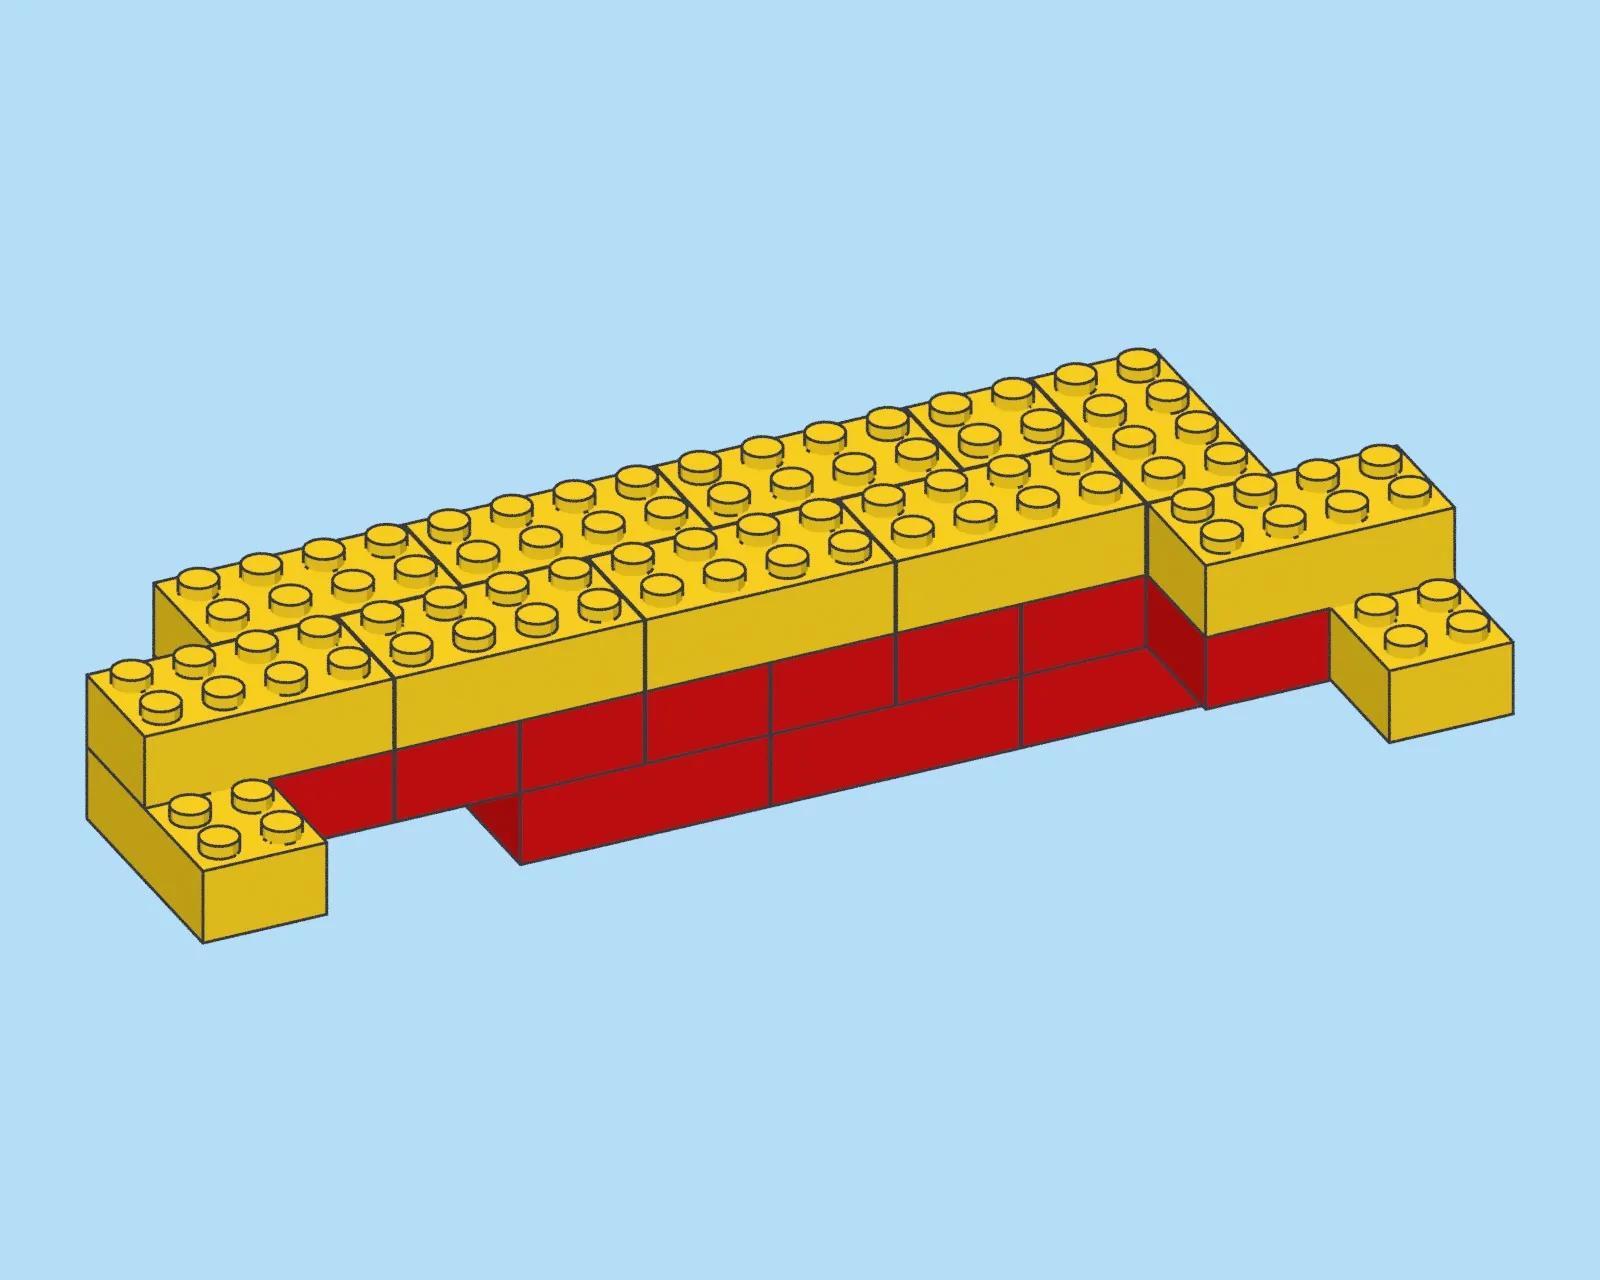
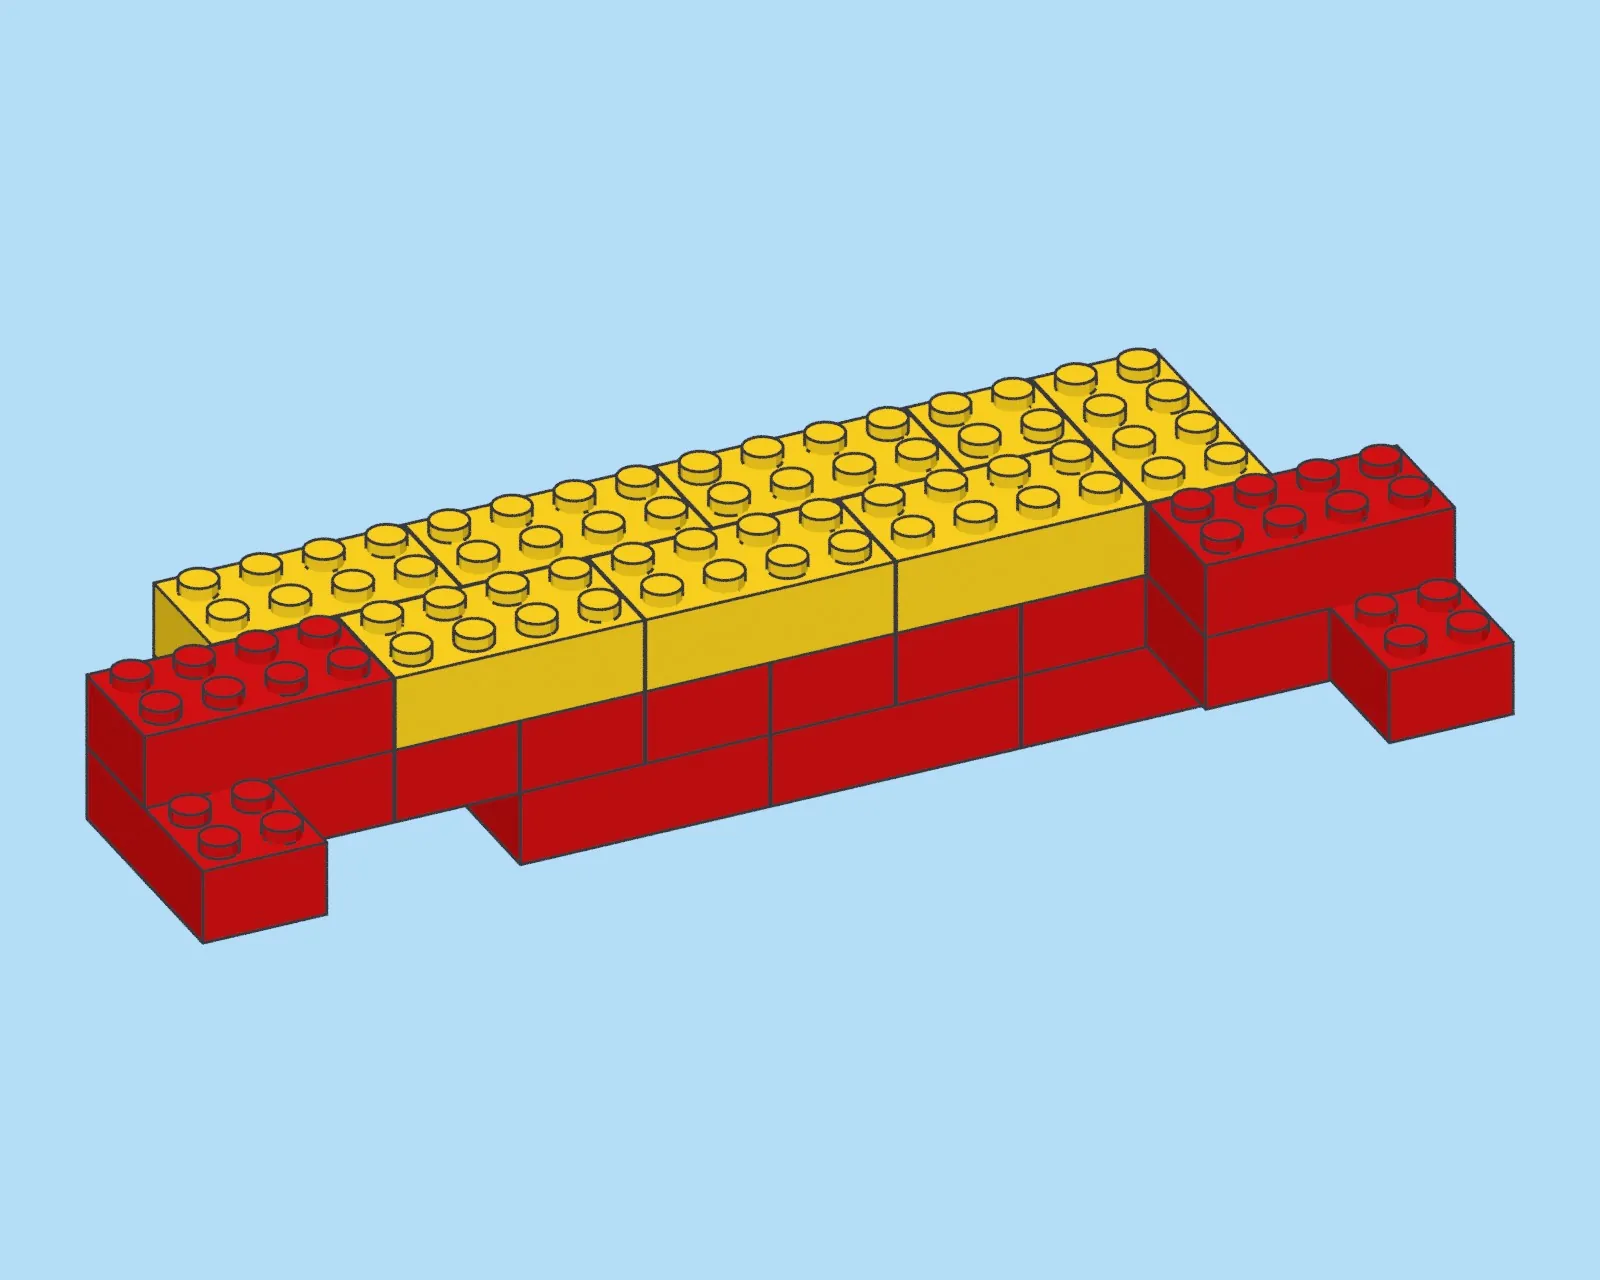
Lego Models: Möbius sub-builds lowered in their own step part, in purple
Each step is now split: stand a pillar, lower each sub-build, then build the
layer, each on its own page. A sub-build being lowered is purple in the
picture and on the map, so it stands out from the rest of the model.

Claude-Session: https://claude.ai/code/session_01BVyAKW4jZLnjrQZ7xdEYaf

Changed region(s): [[0.0312, 0.4688, 0.25, 0.75], [0.7188, 0.3438, 0.9688, 0.5938]]

diff --git a/tools/lego-models/mobius/index.html b/tools/lego-models/mobius/index.html
@@ -178,7 +178,7 @@ html.am-standalone .am-home { display:inline-block; }
         <li data-style="true">Each step builds one layer. In the picture, new bricks have <b>bold outlines and full colour</b>; earlier layers are faded.</li>
 
         <li data-style="highlight">Each step builds one layer. New bricks are <span class="sw" style="background:var(--new-top);vertical-align:-1px"></span> <b>yellow</b>: they go on top of what's there. Bricks in their own colours are already in place.</li>
-        <li><b>Sub-builds.</b> Some pieces stick out over empty space as the model goes up. Rather than building them in the air, you build each one on its own on the table (its pages say "sub-build"), then lower it onto the model in the step that uses it. On the map, a <span style="color:#7a3fc0;font-weight:600">purple ring</span> marks where a sub-build's bricks land.</li>
+        <li><b>Sub-builds.</b> Some pieces stick out over empty space as the model goes up. Rather than building them in the air, you build each one on its own on the table (its pages say "sub-build"), then lower it onto the model in the step that uses it. On the map, a <span style="color:#7a3fc0;font-weight:600">purple</span> marks a sub-build being lowered into place, in the picture and on the map.</li>
         <li><b>Pillars.</b> Each grey pillar is a stack of crossed pairs of bricks, built on its own and stood on the baseplates (on the <b>black ring</b>) when the strip reaches it.</li>
         <li>Faint outlines on the map show the neighbouring layer, for lining things up. Tap any brick to see its exact columns and rows.</li>
       </ul>
@@ -230,7 +230,6 @@ const PLAN = DATA.plan;
 // table, then lowered onto the model); "main": one layer of the model, plus standing pillars and lowering sub-builds.
 const pages = [];
 const B_ = n => bricks[n];
-const placedAt = new Array(bricks.length).fill(0);   // the main step at which each brick appears in the model
 function piecePages(pc, s, parent) {
   pc.parent = parent;
   pc.subs.forEach(sb => piecePages(sb, s, pc));
@@ -240,12 +239,20 @@ function piecePages(pc, s, parent) {
 function pieceBricks(pc) { return pc.layers.flat().concat(...pc.subs.map(pieceBricks)); }
 PLAN.steps.forEach(st => {
   const pls = PLAN.pillars.filter(p => p.place === st.step);
-  pls.forEach(p => { pages.push({ kind: "pillar", pl: p, s: st.step, items: p.layers.flat().map(B_) }); p.layers.flat().forEach(n => placedAt[n] = st.step); });
-  st.pieces.forEach(pc => { piecePages(pc, st.step, null); pieceBricks(pc).forEach(n => placedAt[n] = st.step); });
-  st.singles.forEach(n => placedAt[n] = st.step);
-  pages.push({ kind: "main", s: st.step, layer: st.step, items: st.singles.map(B_), pieces: st.pieces, pillars: pls });
+  pls.forEach(p => pages.push({ kind: "pillar", pl: p, s: st.step, items: p.layers.flat().map(B_) }));
+  st.pieces.forEach(pc => piecePages(pc, st.step, null));
+  pls.forEach(p => pages.push({ kind: "stand", pl: p, s: st.step, layer: 0, items: [] }));
+  st.pieces.forEach(pc => pages.push({ kind: "attach", pc, s: st.step, layer: st.step, items: [] }));
+  pages.push({ kind: "main", s: st.step, layer: st.step, items: st.singles.map(B_) });
 });
 pages.forEach((p, idx) => p.idx = idx);
+// the page at which each brick becomes part of the model
+const placedPg = new Array(bricks.length).fill(1e9);
+pages.forEach(p => {
+  if (p.kind === "stand") p.pl.layers.flat().forEach(n => placedPg[n] = p.idx);
+  if (p.kind === "attach") pieceBricks(p.pc).forEach(n => placedPg[n] = p.idx);
+  if (p.kind === "main") p.items.forEach(b => placedPg[b.n] = p.idx);
+});
 const cum = []; let acc = 0; pages.forEach(p => { if (p.kind !== "main" || true) acc += p.items.length; cum.push(acc); });
 const pieceName = pc => pc.name;
 
@@ -260,7 +267,7 @@ const STYLE = {
   old:  { col: h => (trueStyle() ? [fadeOf(h), fadeEdge(h)] : [h, LS.edge(h)]), dash: false, studs: true },
   top:  { col: h => (trueStyle() ? [h, LS.edge(h)] : ["#f7ce1e", "#5c4a00"]), dash: false, studs: true },
   below:{ col: h => (trueStyle() ? [h, LS.edge(h)] : ["#1e8fe6", "#06345a"]), dash: false, studs: true },
-  attach:{ col: h => (trueStyle() ? [h, LS.edge(h)] : ["#f7ce1e", "#5c4a00"]), dash: false, studs: true },
+  attach:{ col: h => (trueStyle() ? [h, LS.edge(h)] : ["#a97fe0", "#3c2366"]), dash: false, studs: true },
 };
 let current = [];
 function brickSVG(b, kind, ring) {
@@ -300,12 +307,12 @@ function bbox(list, m) {
 function mapSVG(pg) {
   current = [];
   const L = pg.layer;
-  if (pg.kind === "main") {
+  if (pg.kind === "main" || pg.kind === "attach" || pg.kind === "stand") {
     let s = svgOpen(0, 0, COLS, ROWS, `Top-down map of layer ${L + 1}`) + gridSVG(0, 0, COLS, ROWS, 8);
-    bricks.filter(b => b.k === L - 1 && placedAt[b.n] < pg.s).forEach(b => s += brickSVG(b, "ref"));
-    bricks.filter(b => b.k === L && placedAt[b.n] < pg.s).forEach(b => s += brickSVG(b, "old"));
-    pg.pillars.forEach(p => p.layers.flat().map(B_).filter(b => b.k === L).forEach(b => s += brickSVG(b, "old", RING_PILLAR)));
-    pg.pieces.forEach(pc => pieceBricks(pc).map(B_).filter(b => b.k === L).forEach(b => s += brickSVG(b, "attach", RING_PIECE)));
+    bricks.filter(b => b.k === L - 1 && placedPg[b.n] < pg.idx).forEach(b => s += brickSVG(b, "ref"));
+    bricks.filter(b => b.k === L && placedPg[b.n] < pg.idx).forEach(b => s += brickSVG(b, "old"));
+    if (pg.kind === "stand") pg.pl.layers.flat().map(B_).filter(b => b.k === L).forEach(b => s += brickSVG(b, "old", RING_PILLAR));
+    if (pg.kind === "attach") pieceBricks(pg.pc).map(B_).filter(b => b.k === L).forEach(b => s += brickSVG(b, "attach", RING_PIECE));
     pg.items.forEach(b => s += brickSVG(b, "top"));
     return s + "</svg>";
   }
@@ -353,7 +360,8 @@ let page = -1;
 $("range").max = pages.length;
 function label(pg) { return pg.kind === "main" ? `${pg.s + 1}` : pg.kind === "pillar" ? `${pg.s + 1}` : `${pg.s + 1}`; }
 function hashOf(pg) {
-  return pg.kind === "main" ? `#step-${pg.s + 1}` : pg.kind === "pillar" ? `#step-${pg.s + 1}-pillar-${pg.pl.name}` : `#step-${pg.s + 1}-sub-${pg.pc.name}-${pg.li + 1}`;
+  return pg.kind === "main" ? `#step-${pg.s + 1}` : pg.kind === "pillar" ? `#step-${pg.s + 1}-pillar-${pg.pl.name}` : pg.kind === "stand" ? `#step-${pg.s + 1}-stand-${pg.pl.name}`
+    : pg.kind === "attach" ? `#step-${pg.s + 1}-lower-${pg.pc.name}` : `#step-${pg.s + 1}-sub-${pg.pc.name}-${pg.li + 1}`;
 }
 const plural = (n, w) => `${n} ${w}${n === 1 ? "" : "s"}`;
 function ringBox(list) { const [x0, y0, x1, y1] = bbox(list, 0); return `columns ${x0 + 1}–${x1}, rows ${y0 + 1}–${y1}`; }
@@ -370,15 +378,20 @@ function show(i) {
   if (i < 0) return;
   const pg = pages[i], s = pg.s;
   const cnt4 = (cl) => pg.items.filter(b => bhex(b) === cl.hex && b.o !== 2).length, cnt2 = (cl) => pg.items.filter(b => bhex(b) === cl.hex && b.o === 2).length;
-  const sub = pg.kind === "pillar" ? `pillar ${pg.pl.name}` : pg.kind === "piece" ? `sub-build ${pg.pc.name} · layer ${pg.li + 1} of ${pg.pc.layers.length}` : "";
+  const sub = pg.kind === "pillar" ? `pillar ${pg.pl.name}` : pg.kind === "piece" ? `sub-build ${pg.pc.name} · layer ${pg.li + 1} of ${pg.pc.layers.length}`
+    : pg.kind === "stand" ? `stand pillar ${pg.pl.name}` : pg.kind === "attach" ? `lower sub-build ${pg.pc.name}` : pages.some(q => q.s === s && (q.kind === "stand" || q.kind === "attach")) ? `layer ${s + 1}` : "";
   $("stepnum").innerHTML = `${s + 1}<small>/ ${N}${sub ? ` · ${sub}` : ""}</small>`;
   const chip = (c, n, k) => k ? `<div class="part">${brickIcon(c, n)}× ${k}</div>` : "";
   $("parts").innerHTML = LS.distinct(SC).map(cl => chip(cl.hex, 4, cnt4(cl)) + chip(cl.hex, 2, cnt2(cl))).join("");
   const nn = String(s + 1).padStart(2, "0"), dir = `steps${LS.suffix(SC)}`;
-  $("shot").src = pg.kind === "main" ? `${dir}/step_${nn}.webp` : pg.kind === "pillar" ? `${dir}/pillar_${pg.pl.name}.webp` : `${dir}/sub_${pg.pc.name}_${pg.li + 1}.webp`;
+  $("shot").src = pg.kind === "main" ? `${dir}/step_${nn}.webp` : pg.kind === "pillar" ? `${dir}/pillar_${pg.pl.name}.webp` : pg.kind === "stand" ? `${dir}/stand_${pg.pl.name}.webp`
+    : pg.kind === "attach" ? `${dir}/attach_${pg.pc.name}.webp` : `${dir}/sub_${pg.pc.name}_${pg.li + 1}.webp`;
   $("belowwrap").classList.add("hidden");
-  $("shottitle").textContent = pg.kind === "main" ? "Model after this step" : pg.kind === "pillar" ? `Pillar ${pg.pl.name}, finished` : `Sub-build ${pg.pc.name} so far`;
-  $("maptitle").textContent = pg.kind === "main" ? `Layer ${pg.layer + 1} from above` : pg.kind === "pillar" ? `Pillar ${pg.pl.name}, layer by layer` : `Sub-build ${pg.pc.name}: its layer ${pg.li + 1} from above`;
+  $("shottitle").textContent = pg.kind === "main" ? "Model after this step" : pg.kind === "pillar" ? `Pillar ${pg.pl.name}, finished` : pg.kind === "stand" ? `Pillar ${pg.pl.name} in place`
+    : pg.kind === "attach" ? `Sub-build ${pg.pc.name} in place` : `Sub-build ${pg.pc.name} so far`;
+  $("maptitle").textContent = pg.kind === "main" ? `Layer ${pg.layer + 1} from above` : pg.kind === "pillar" ? `Pillar ${pg.pl.name}, layer by layer`
+    : pg.kind === "stand" ? `Layer 1 from above: where pillar ${pg.pl.name} stands` : pg.kind === "attach" ? `Layer ${pg.layer + 1} from above: where sub-build ${pg.pc.name} lands`
+    : `Sub-build ${pg.pc.name}: its layer ${pg.li + 1} from above`;
   $("mapwrap").innerHTML = pg.kind === "pillar" ? pillarHTML(pg.pl) : mapSVG(pg);
   $("mapwrap").classList.toggle("pillar", pg.kind === "pillar"); $("zoom").hidden = pg.kind === "pillar";
   $("info").textContent = pg.kind === "pillar" ? "" : "Tap a brick for its position.";
@@ -388,11 +401,14 @@ function show(i) {
   if (pg.kind === "pillar") lg = `<span>${sw("#6c6e68", "1px solid #26272a")}each layer: two bricks, crossed over the layer below</span>`;
   else {
     lg = `<span>${newSw}new: place on top</span>`;
-    if (pg.kind === "main" && pg.pieces.length || pg.kind === "piece" && pg.attach.length) lg += `<span>${sw("none", `3px solid ${RING_PIECE}`)}sub-build lands here</span>`;
-    if (pg.kind === "main" && pg.pillars.length) lg += `<span>${sw("none", `3px solid ${RING_PILLAR}`)}stand the pillar here</span>`;
-    if (pg.kind === "main" && bricks.some(b => b.k === pg.layer && placedAt[b.n] < pg.s)) lg += `<span>${trueStyle() ? sw(fadeOf(main), `1px solid ${fadeEdge(main)}`) : sw("#6c6e68", "1px solid #26272a")}already in place</span>`;
+    if (pg.kind !== "main" && pg.kind !== "piece") lg = "";
+    const subSw = trueStyle() ? sw(main, `3px solid ${RING_PIECE}`) : sw("#a97fe0", `3px solid ${RING_PIECE}`);
+    if (pg.kind === "attach") lg += `<span>${subSw}sub-build ${pg.pc.name}: its bricks in this layer</span>`;
+    if (pg.kind === "piece" && pg.attach.length) lg += `<span>${subSw}sub-build ${pg.attach.map(x => x.name).join(", ")} lands here</span>`;
+    if (pg.kind === "stand") lg += `<span>${sw("#6c6e68", `3px solid ${RING_PILLAR}`)}pillar ${pg.pl.name} stands here</span>`;
+    if (pg.kind !== "piece" && bricks.some(b => b.k === pg.layer && placedPg[b.n] < pg.idx)) lg += `<span>${trueStyle() ? sw(fadeOf(main), `1px solid ${fadeEdge(main)}`) : sw("#d01012", "1px solid #3a0a04")}already in place</span>`;
     if (pg.kind === "piece" && pg.li > 0) lg += `<span>${sw("none", "1px dashed #c9a39d")}its layer ${pg.li} (below)</span>`;
-    if (pg.kind === "main" && pg.layer > 0) lg += `<span>${sw("none", "1px dashed #c9a39d")}layer ${pg.layer} (below)</span>`;
+    if (pg.kind !== "piece" && pg.layer > 0) lg += `<span>${sw("none", "1px dashed #c9a39d")}layer ${pg.layer} (below)</span>`;
   }
   $("legend").innerHTML = lg;
   const cnt = pg.items.length, bricksTxt = plural(cnt, "brick");
@@ -410,12 +426,16 @@ function show(i) {
     else t = `<h3>Sub-build ${pc.name} · layer ${pg.li + 1} of ${nl}</h3><p>${cnt ? `Place ${bricksTxt} on top of the piece.` : ""}</p>`;
     pg.attach.forEach(sb => t += `<p>Then take sub-build ${sb.name} and lower it onto this piece, so its bricks land on the purple-ringed places.</p>`);
     if (last) t += `<p>Sub-build ${pc.name} is done. Put it aside until ${when}.</p>`;
+  } else if (pg.kind === "stand") {
+    t = `<h3>Stand pillar ${pg.pl.name}</h3><p>Put pillar ${pg.pl.name} on the baseplates, on the black-ringed place (${ringBox(pg.pl.layers[0].map(B_))}).</p>` +
+        `<p>From this step on, the strip rests on it. If a brick that sits on the pillar doesn't line up, nudge the pillar on the baseplates.</p>`;
+  } else if (pg.kind === "attach") {
+    const top = pieceBricks(pg.pc).map(B_).filter(b => b.k === pg.layer);
+    t = `<h3>Lower sub-build ${pg.pc.name}</h3><p>Lower sub-build ${pg.pc.name} straight down onto the model, so its top bricks (purple on the map, ${ringBox(top)}) sit on layer ${pg.layer}. ` +
+        `Its lower bricks hang beside the layers below. In the picture it's the ${trueStyle() ? "full-colour" : "purple"} part.</p>`;
   } else {
     t = `<h3>Build layer ${s + 1}</h3>`;
-    pg.pillars.forEach(p => t += `<p>First stand <b>pillar ${p.name}</b> on the baseplates, on the black-ringed place (${ringBox(p.layers.flat().map(B_))}).</p>`);
-    t += s === 0 ? `<p>Place ${bricksTxt} directly on the baseplates.</p>` : cnt ? `<p>Place the ${bricksTxt} on top of layer ${s}, in any order.</p>` : "";
-    pg.pieces.forEach(pc => t += `<p>${cnt || pg.pillars.length ? "Then lower" : "Lower"} <b>sub-build ${pc.name}</b> onto the model: its purple-ringed bricks go here (${ringBox(pieceBricks(pc).map(B_).filter(b => b.k === pg.layer))}), and its lower bricks hang beside the layers below.</p>`);
-    if (pg.pillars.length) t += `<p><b>Check:</b> from here on the strip rests on the pillar. If a brick that sits on it doesn't line up, nudge the pillar on the baseplates.</p>`;
+    t += s === 0 ? `<p>Place ${bricksTxt} directly on the baseplates.</p>` : cnt ? `<p>Place the ${bricksTxt} on top of layer ${s}, in any order.</p>` : `<p>Nothing more to add in this layer.</p>`;
   }
   if (i === pages.length - 1) t += `<p><b>Done.</b> Follow the edge with a finger: it goes around twice before it gets back to where you started.</p>`;
   $("todo").innerHTML = t;
